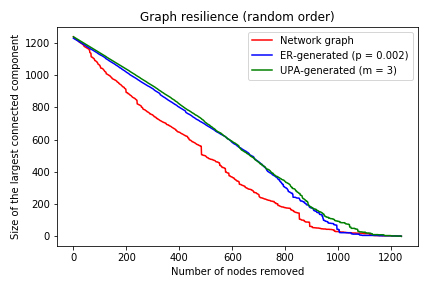
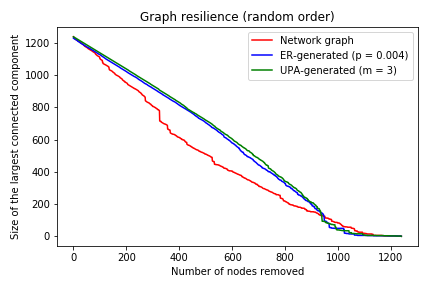
__
___

Changed region(s): [[0.1806, 0.125, 0.9028, 0.8438], [0.9028, 0.1875, 0.963, 0.2188]]

diff --git a/AT_Week4/App2.py b/AT_Week4/App2.py
@@ -9,7 +9,8 @@ Created on Tue Mar  6 22:07:24 2018
 # general imports
 from urllib.request import urlopen
 import random
-import time
+import sys
+import timeit
 import math
 
 #Desktop imports
@@ -168,9 +169,9 @@ def make_er_graph(num_nodes, p):
     """
     graph = {key: set([]) for key in range(num_nodes)}
     for node in range(num_nodes):
-        for to_node in range(num_nodes):
+        for to_node in range(node + 1, num_nodes):
             chance = random.random() #Return the next random floating point number in the range [0.0, 1.0).
-            if node != to_node and chance < p:
+            if chance < p:
                 graph[node].add(to_node)
                 graph[to_node].add(node)
     #print(graph)                
@@ -226,7 +227,7 @@ def question1(network, er, upa, order_func, order_label, filename):
     
     xs = range(N+1)
     plt.plot(xs, network_res, '-r', label = 'Network graph')
-    plt.plot(xs, er_res, '-b', label = 'ER-generated (p = 0.002)')
+    plt.plot(xs, er_res, '-b', label = 'ER-generated (p = 0.004)')
     plt.plot(xs, upa_res, '-g', label = 'UPA-generated (m = 3)')
     plt.title('Graph resilience (%s)' % order_label)
     plt.xlabel('Number of nodes removed')
@@ -237,13 +238,79 @@ def question1(network, er, upa, order_func, order_label, filename):
     print('Saved plot to %s' %filename)
     plt.show()
     
+if True: 
+    network = load_graph(NETWORK_URL)
+    er = make_er_graph(1239, 0.004)
+    upa = make_upa_graph(1239, 3)
     
-network = load_graph(NETWORK_URL)
-er = make_er_graph(1239, 0.002)
-upa = make_upa_graph(1239, 3)
+    question1(network, er, upa, random_order, 'random order', 'q1.png')
+    
 
-question1(network, er, upa, random_order, 'random order', 'q1.png')
+def fast_targeted_order(ugraph):
+    ugraph = copy_graph(ugraph)
+    N = len(ugraph)
+    degree_sets = [set([])] * N # Sao Cao Zuo
+    for node, neighbors in ugraph.items():
+        degree = len(neighbors)
+        degree_sets[degree].add(node)
+    order = []
+    
+    for k in range(N-1, -1, -1): # N-1, N-2, N-3, ..., 0
+        while degree_sets[k]: # Sao Cao Zuo
+            u = degree_sets[k].pop() # pop up an element we don't know. Since set data structure.
+            for neighbor in ugraph[u]:
+                d = len(ugraph[neighbor])
+                degree_sets[d].remove(neighbor)
+                degree_sets[d - 1].add(neighbor)
+                
+            order.append(u)
+            delete_node(ugraph, u)
+    
+    return order
 
+
+    
+def measure_targeted_order(n, m, func):
+    graph = make_upa_graph(n, m)
+    return timeit.timeit(lambda: func(graph), number = 1)
+    
+def question3(filename):
+    xs = range(10, 1000, 10)
+    m = 5
+    
+    ys_targeted = [measure_targeted_order(n, m, targeted_order) for n in xs]
+    ys_fast_targeted = [measure_targeted_order(n, m, fast_targeted_order) for n in xs]
+    
+    plt.plot(xs, ys_targeted, '-r', label = 'targeted_order')
+    plt.plot(xs, ys_fast_targeted, '-r', label = 'fast_targeted_order')
+    plt.title('Targeted order functions performance (desktup Python)')
+    plt.xlabel('Number of nodes in the graph')
+    plt.ylabel('Execution time')
+    plt.legend(loc = 'upper left')
+    plt.tight_layout()
+    plt.savefig(filename)
+    print('Saved plot to %s' % filename)
+    plt.show()
+
+if False:    
+    question3('q3.png')
+   
+
+
+def question4(filename):
+    network = load_graph(NETWORK_URL)
+    er = make_er_graph(1239, 0.004)
+    upa = make_upa_graph(1239, 3)
+    question1(network, er, upa, fast_targeted_order, 'fast_targeted_order', '%s' % filename)
+if True:    
+    question4('q4.png')
+    
+    
+    
+    
+    
+    
+    
     
     
     

diff --git a/AT_Week4/pick_p_and_m.py b/AT_Week4/pick_p_and_m.py
@@ -117,15 +117,15 @@ def make_er_graph(num_nodes, p):
     """
     graph = {key: set([]) for key in range(num_nodes)}
     for node in range(num_nodes):
-        for to_node in range(num_nodes):
+        for to_node in range(node + 1, num_nodes):
             chance = random.random() #Return the next random floating point number in the range [0.0, 1.0).
-            if node != to_node and chance < p:
+            if chance < p:
                 graph[node].add(to_node)
                 graph[to_node].add(node)
     #print(graph)                
     return graph
 
-er = make_er_graph(1239, 0.002) # after choosing for 10 values. 
+er = make_er_graph(1239, 0.004) # after choosing for 10 values of p
 print("Loaded er graph with", len(er), "nodes")
 edges_er = num_of_edges(er)
 print('er edges are ', edges_er, '\n')
@@ -142,11 +142,7 @@ def make_upa_graph(n, m):
     
     return graph
 
-upa = make_upa_graph(1239, 3)
+upa = make_upa_graph(1239, 3) # after choosing for 10 values of m
 print("Loaded upa graph with", len(upa), "nodes")
 edges_upa = num_of_edges(upa)
 print('upa edges are ', edges_upa, '\n')
-    
-
-
-
